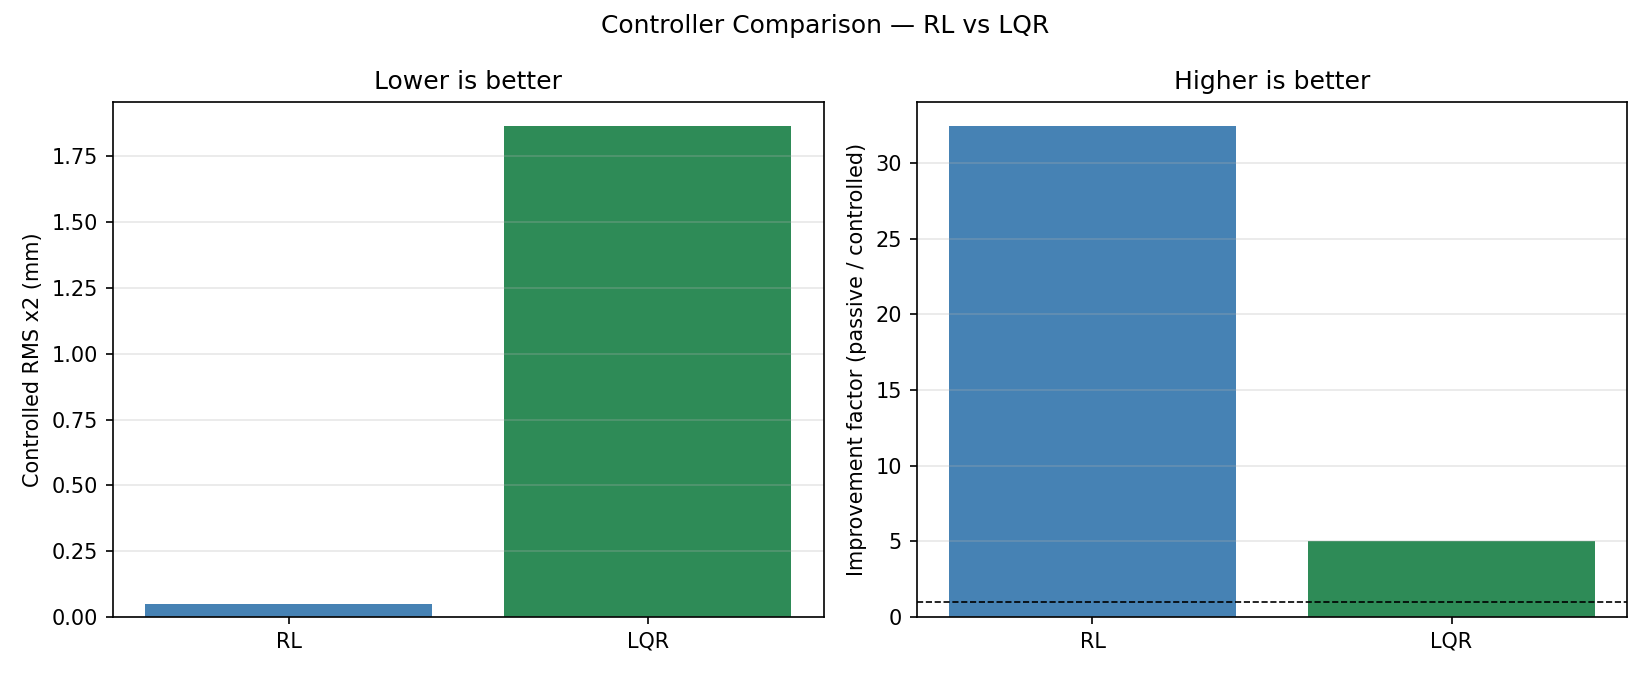
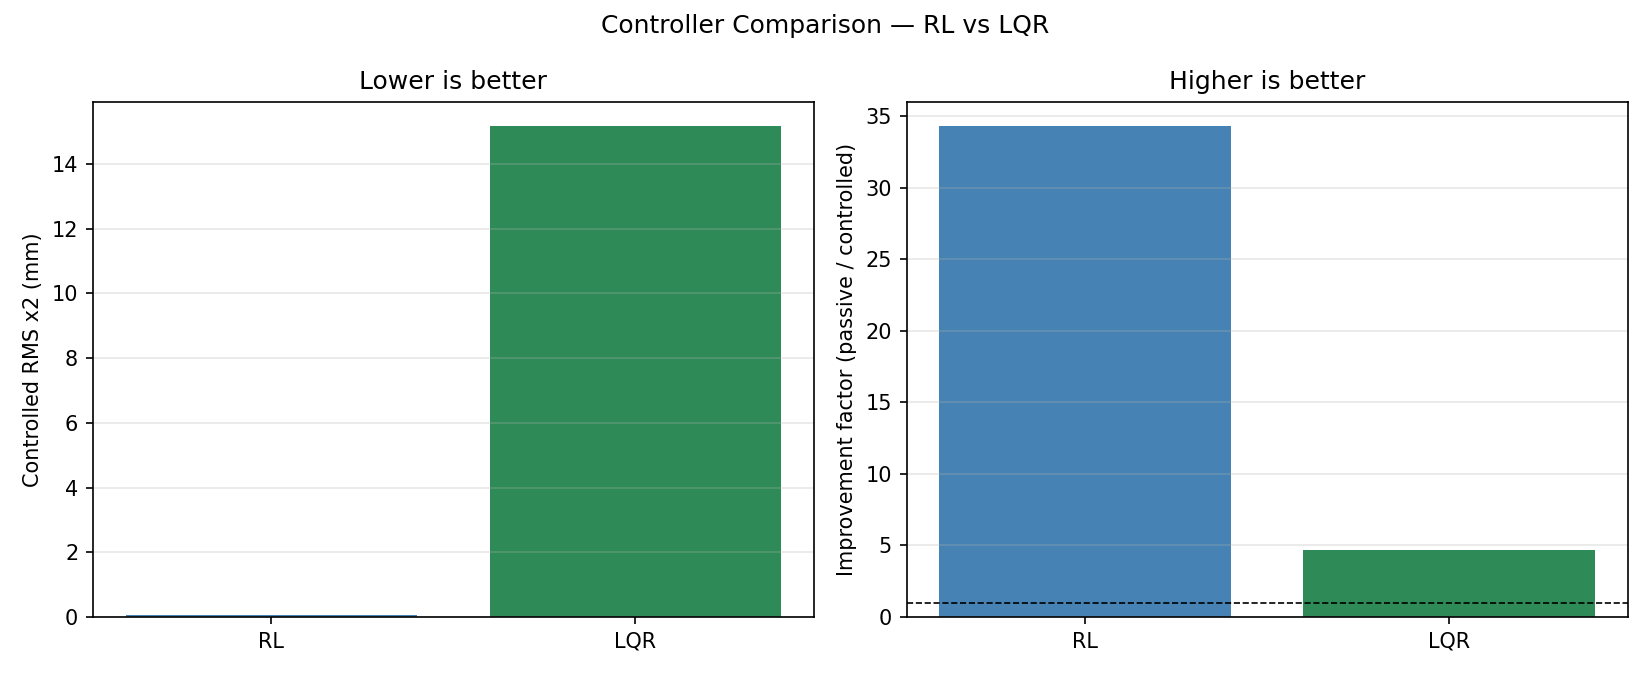
Update RL/LQR artifacts and README summary

diff --git a/README.md b/README.md
@@ -97,6 +97,27 @@ python tools_refresh_readme.py
 ```
 
 Auto-generated summaries are injected between:
-- `<!-- AUTO_RESULTS_START -->`
-- `<!-- AUTO_RESULTS_END -->`
+- `<!-- AUTO_RESULTS_START -->
+## Latest Auto-Generated Run Summary
+
+### RL (latest run)
+- Seed: `18492`
+- Passive RMS x2: `1.885 mm`
+- RL RMS x2: `0.055 mm`
+- Improvement factor (passive/RL): `34.29x`
+- Reward initial/final: `-57.8176 -> -0.0059`
+- No-noise regulation final |x2|: `0.073 mm`
+- Interpretation: If improvement is < 1.0x, the policy is still underperforming passive isolation and reward scaling/actuation strategy should be revisited.
+
+### Simple controls / LQR (latest run)
+- Seed: `18513`
+- Passive RMS x2: `71.052 mm`
+- LQR RMS x2: `15.167 mm`
+- Improvement factor (passive/LQR): `4.68x`
+- Interpretation: This is your near-equilibrium model-based baseline; RL should eventually match or exceed this over repeated seeds.
+
+### Physics notes for LIGO context
+- Lower RMS and lower ASD in the microseismic band imply better suspension isolation and reduced motion coupling into interferometer sensing.
+- A strong learning curve without RMS/ASD gain usually means the cost function is being optimized in a way that is not physically aligned with disturbance rejection.
+<!-- AUTO_RESULTS_END -->`
 
